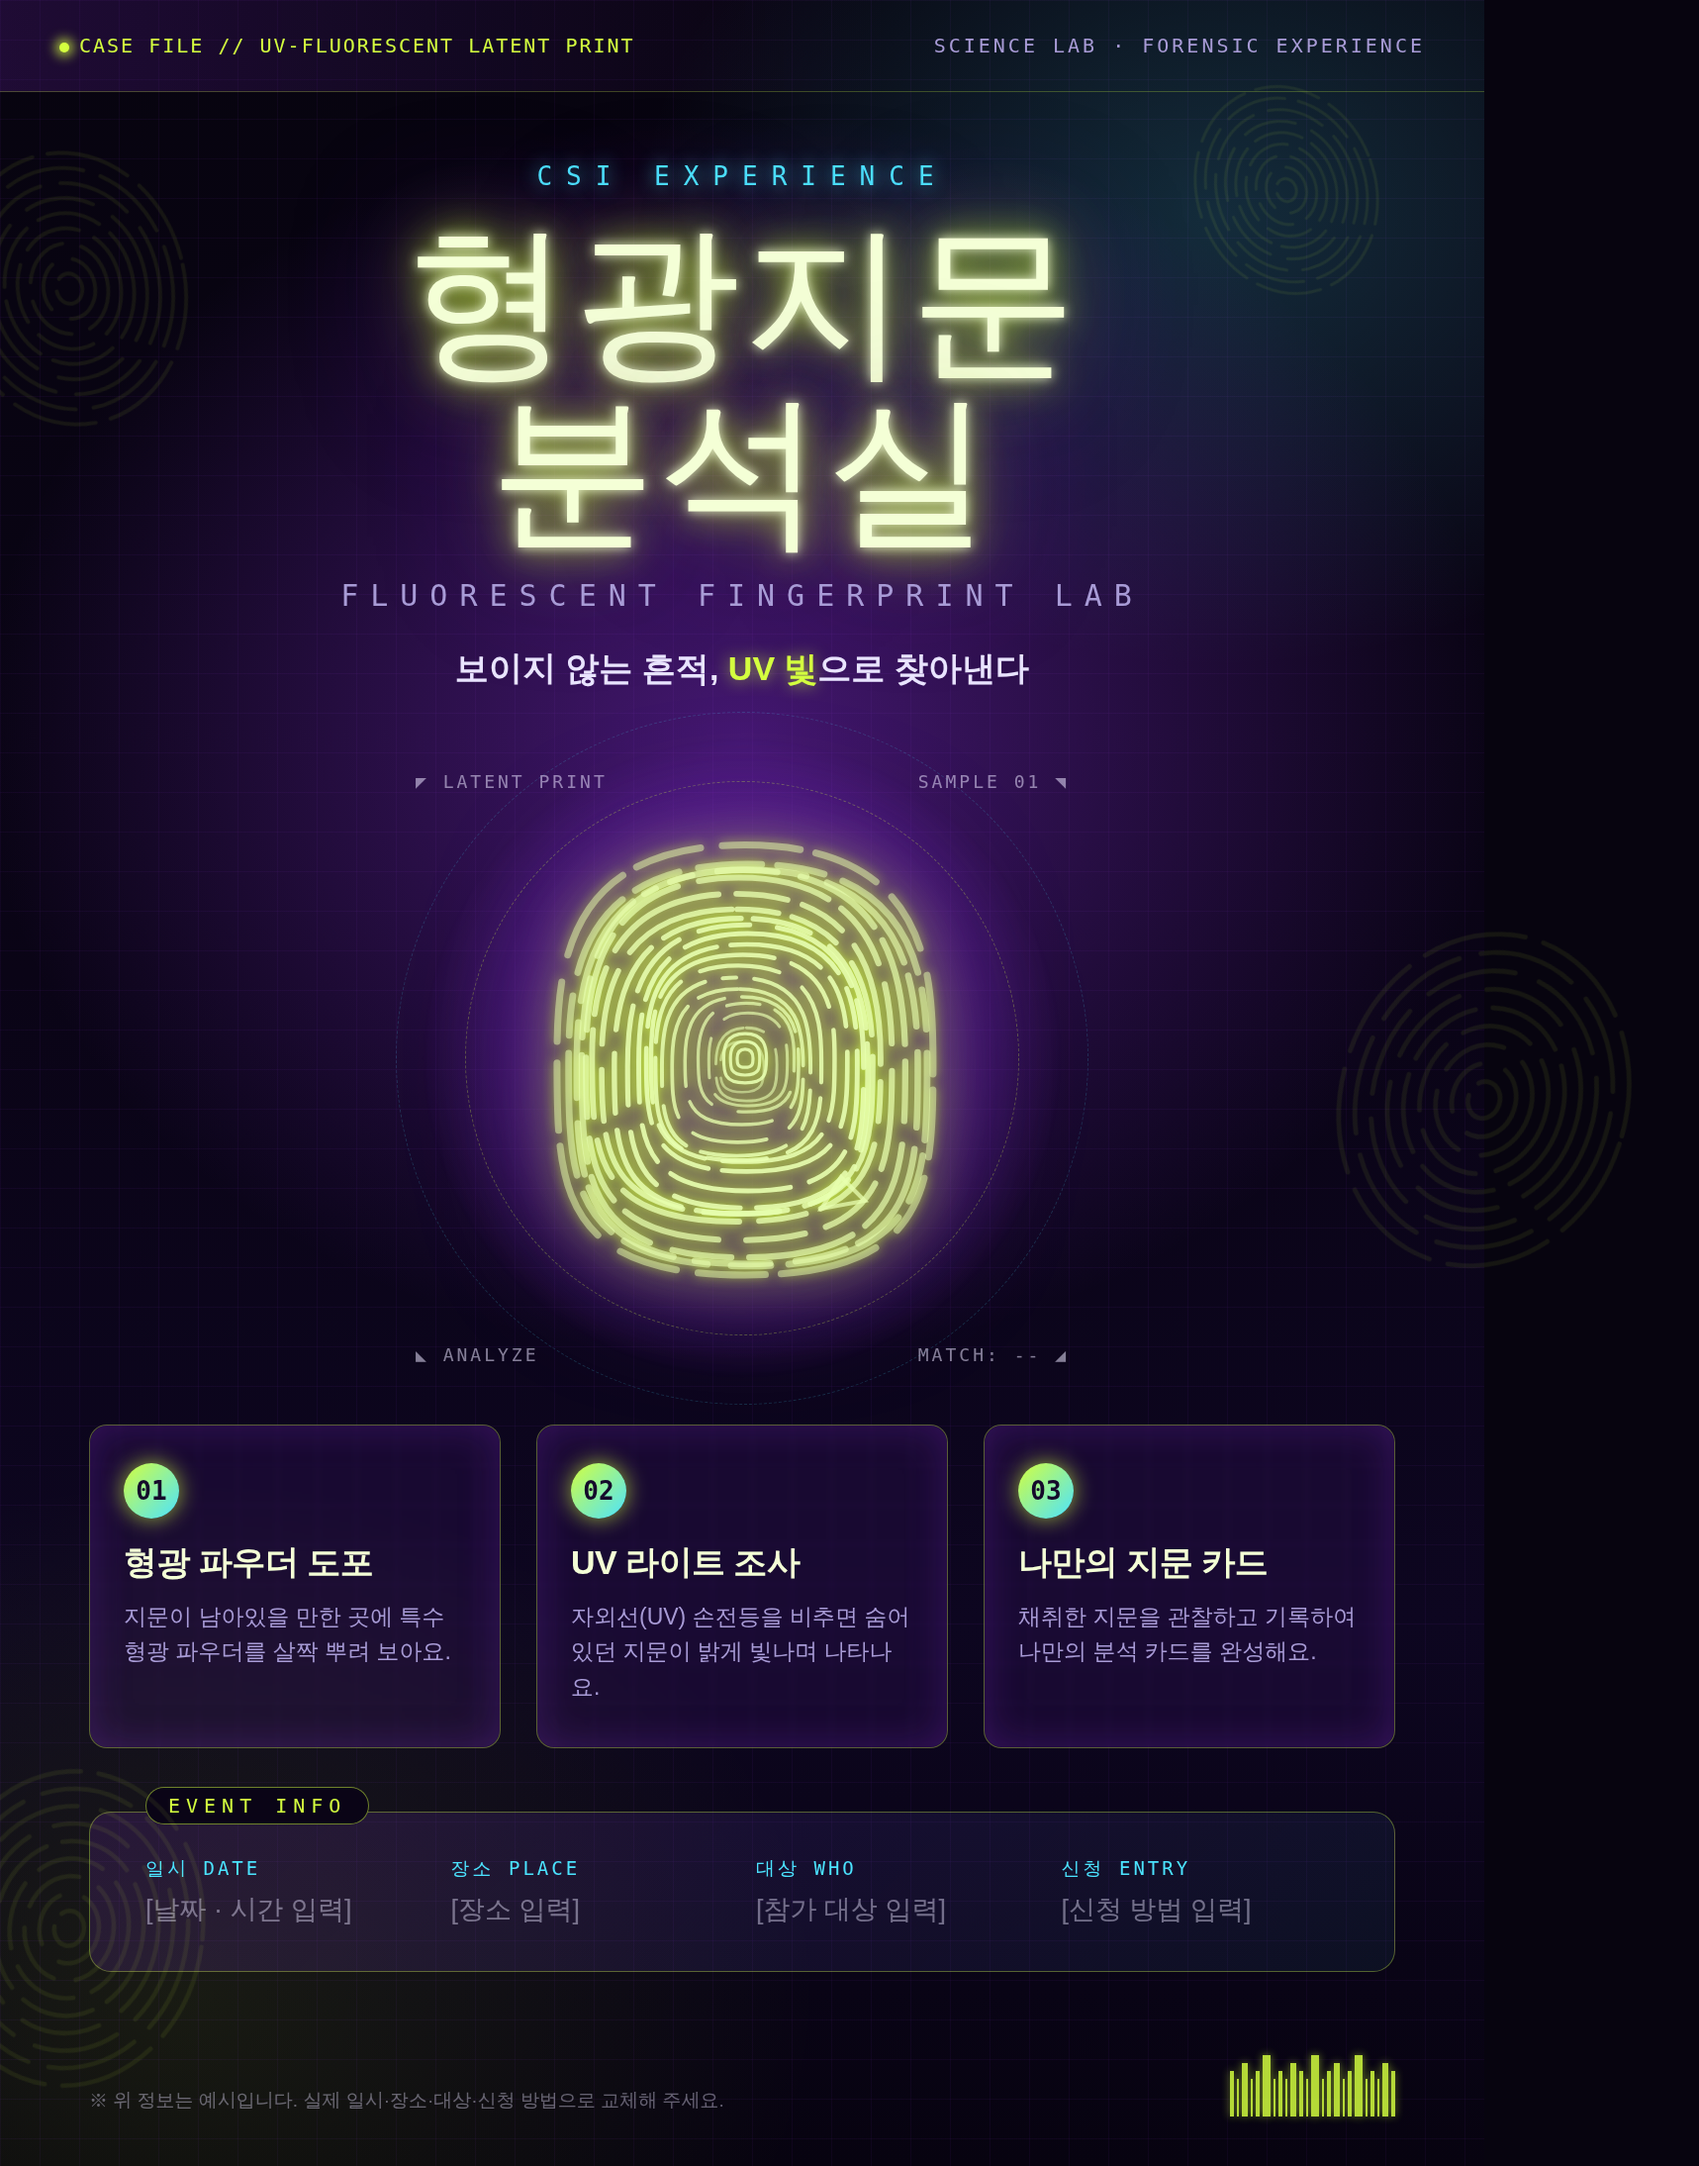
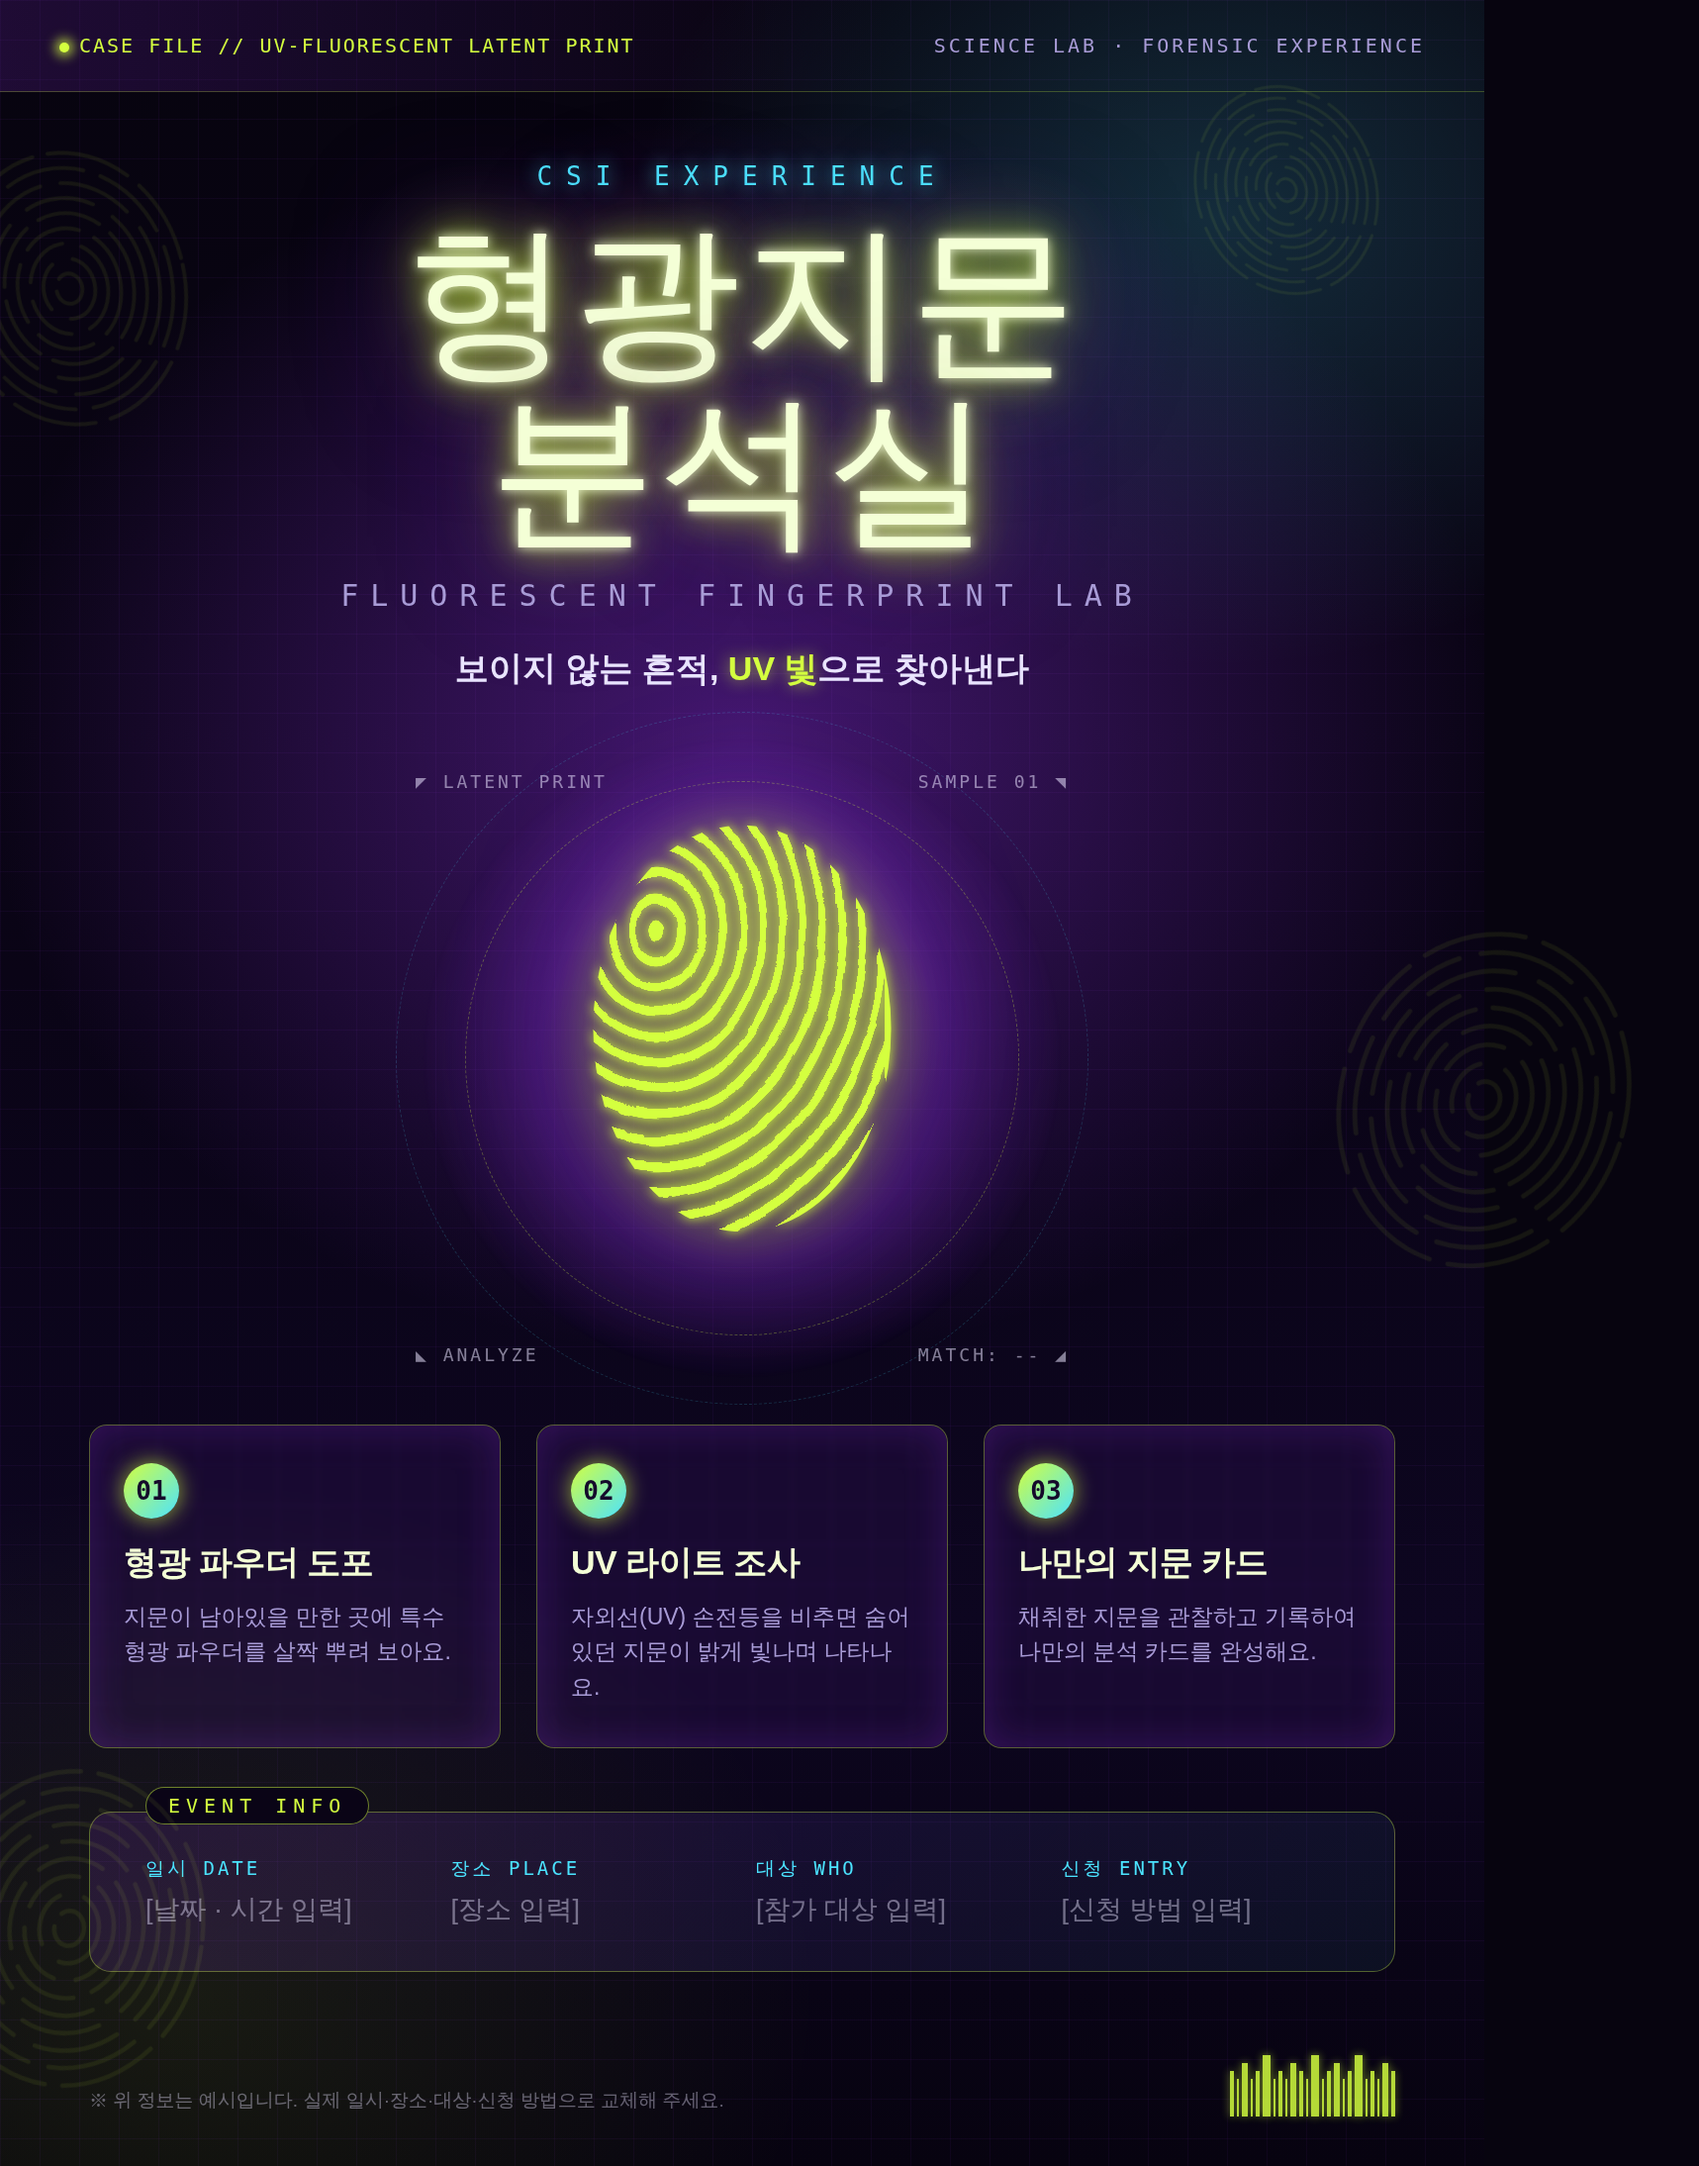
Make central fingerprint graphic look more realistic
Replace the abstract concentric-egg-ring fingerprint with an SVG-filter
generated ridge pattern (radial gradient rings warped by fractal noise),
giving a whorl-style print with a clear core spiral instead of a
stylized crescent shape.

Claude-Session: https://claude.ai/code/session_01JAF62XTLEtaKahL6NRmHL9

Changed region(s): [[0.3087, 0.3729, 0.5865, 0.6216]]

diff --git a/poster/형광지문-분석실-포스터.html b/poster/형광지문-분석실-포스터.html
@@ -301,8 +301,43 @@
       <div class="fp-ring"></div>
       <div class="fp-corner tl">◤ LATENT PRINT</div>
       <div class="fp-corner tr">SAMPLE 01 ◥</div>
-      <svg class="fingerprint" id="fpSvg" viewBox="0 0 200 260" xmlns="http://www.w3.org/2000/svg">
-        <g id="fpGroup" fill="none" stroke="#e8ffb0" stroke-linecap="round"></g>
+      <svg class="fingerprint" id="fpSvg" viewBox="0 0 300 380" xmlns="http://www.w3.org/2000/svg">
+        <defs>
+          <radialGradient id="ringGradCore" cx="0.44" cy="0.40" r="0.050" gradientUnits="objectBoundingBox" spreadMethod="repeat">
+            <stop offset="0" stop-color="black"/>
+            <stop offset="0.34" stop-color="black"/>
+            <stop offset="0.42" stop-color="white"/>
+            <stop offset="1" stop-color="white"/>
+          </radialGradient>
+          <rect id="ringCoreRect" x="0" y="0" width="300" height="380" fill="url(#ringGradCore)"/>
+          <radialGradient id="deltaFade" cx="0.56" cy="0.86" r="0.30" gradientUnits="objectBoundingBox">
+            <stop offset="0" stop-color="white" stop-opacity="1"/>
+            <stop offset="1" stop-color="white" stop-opacity="0"/>
+          </radialGradient>
+          <filter id="fpFilter" x="-15%" y="-15%" width="130%" height="130%" color-interpolation-filters="sRGB">
+            <feTurbulence type="fractalNoise" baseFrequency="0.010 0.013" numOctaves="3" seed="17" stitchTiles="stitch" result="warp"/>
+            <feTurbulence type="fractalNoise" baseFrequency="0.05" numOctaves="2" seed="4" result="microWarp"/>
+            <feImage href="#ringCoreRect" result="ringCore"/>
+            <feDisplacementMap in="ringCore" in2="warp" scale="8" xChannelSelector="R" yChannelSelector="G" result="ringsWarped"/>
+            <feDisplacementMap in="ringsWarped" in2="microWarp" scale="2" xChannelSelector="R" yChannelSelector="G" result="ringsWarped2"/>
+            <feComponentTransfer in="ringsWarped2" result="ridgeContrast">
+              <feFuncR type="linear" slope="1.7" intercept="-0.32"/>
+              <feFuncG type="linear" slope="1.7" intercept="-0.32"/>
+              <feFuncB type="linear" slope="1.7" intercept="-0.32"/>
+            </feComponentTransfer>
+            <feColorMatrix in="ridgeContrast" type="matrix"
+              values="0 0 0 0 0.831
+                      0 0 0 0 1
+                      0 0 0 0 0.247
+                      -1 -1 -1 0 1"/>
+          </filter>
+          <clipPath id="fpClip">
+            <ellipse cx="150" cy="168" rx="110" ry="150"/>
+          </clipPath>
+        </defs>
+        <g clip-path="url(#fpClip)">
+          <rect x="0" y="0" width="300" height="380" filter="url(#fpFilter)"/>
+        </g>
       </svg>
       <div class="fp-corner bl">◣ ANALYZE</div>
       <div class="fp-corner br">MATCH: -- ◢</div>
@@ -353,57 +388,6 @@
   </div>
 
 <script>
-  // build a glowing fingerprint from concentric egg-shaped ridge rings with natural gaps
-  function eggPath(cx, cy, rx, ry, taper){
-    const topRx = rx * (1 - taper*0.4);
-    const botRx = rx * (1 - taper*0.05);
-    return [
-      `M ${cx} ${(cy-ry).toFixed(2)}`,
-      `C ${(cx+topRx).toFixed(2)} ${(cy-ry).toFixed(2)} ${(cx+rx).toFixed(2)} ${(cy-ry*0.42).toFixed(2)} ${(cx+rx).toFixed(2)} ${cy.toFixed(2)}`,
-      `C ${(cx+rx).toFixed(2)} ${(cy+ry*0.58).toFixed(2)} ${(cx+botRx).toFixed(2)} ${(cy+ry).toFixed(2)} ${cx} ${(cy+ry).toFixed(2)}`,
-      `C ${(cx-botRx).toFixed(2)} ${(cy+ry).toFixed(2)} ${(cx-rx).toFixed(2)} ${(cy+ry*0.58).toFixed(2)} ${(cx-rx).toFixed(2)} ${cy.toFixed(2)}`,
-      `C ${(cx-rx).toFixed(2)} ${(cy-ry*0.42).toFixed(2)} ${(cx-topRx).toFixed(2)} ${(cy-ry).toFixed(2)} ${cx} ${(cy-ry).toFixed(2)}`,
-      "Z"
-    ].join(" ");
-  }
-  (function(){
-    const group = document.getElementById('fpGroup');
-    const cx = 100, cy = 132;
-    const n = 20;
-    const dashSets = ["54 9 30 12 46 8","38 11 58 7 26 13","44 8 24 10 62 9 20 12","30 14 50 8 34 11"];
-    for(let i=0;i<n;i++){
-      const t = i/(n-1);
-      const rx = 11 + t*84;
-      const ry = rx * (1.16 + 0.04*Math.sin(i*1.3));
-      const jx = cx + 3*Math.sin(i*0.8);
-      const jy = cy + 2.4*Math.cos(i*1.1);
-      const taper = 0.16 + 0.09*Math.sin(i*0.5+1);
-      const p = document.createElementNS("http://www.w3.org/2000/svg","path");
-      p.setAttribute("d", eggPath(jx, jy, rx, ry, taper));
-      p.setAttribute("stroke-width", (1.3 + t*2.2).toFixed(2));
-      p.setAttribute("stroke-dasharray", dashSets[i % dashSets.length]);
-      p.setAttribute("stroke-dashoffset", ((i*29) % 97).toString());
-      const op = 0.4 + 0.5 * Math.sin(t*Math.PI*0.85 + 0.3);
-      p.setAttribute("stroke-opacity", Math.max(0.35, Math.min(0.95, op)).toFixed(2));
-      group.appendChild(p);
-    }
-    // tight core spiral
-    for(let i=0;i<3;i++){
-      const p = document.createElementNS("http://www.w3.org/2000/svg","path");
-      const r = 4 + i*3.4;
-      p.setAttribute("d", eggPath(cx+1.5, cy-2, r, r*1.15, 0.2));
-      p.setAttribute("stroke-width","1.6");
-      p.setAttribute("stroke-opacity","0.9");
-      group.appendChild(p);
-    }
-    // delta triangle mark near lower-right, a classic fingerprint landmark
-    const delta = document.createElementNS("http://www.w3.org/2000/svg","path");
-    delta.setAttribute("d","M 150 190 L 162 202 L 140 206 Z");
-    delta.setAttribute("stroke-width","2");
-    delta.setAttribute("stroke-opacity","0.75");
-    group.appendChild(delta);
-  })();
-
   // barcode
   (function(){
     const bc = document.getElementById('barcode');
